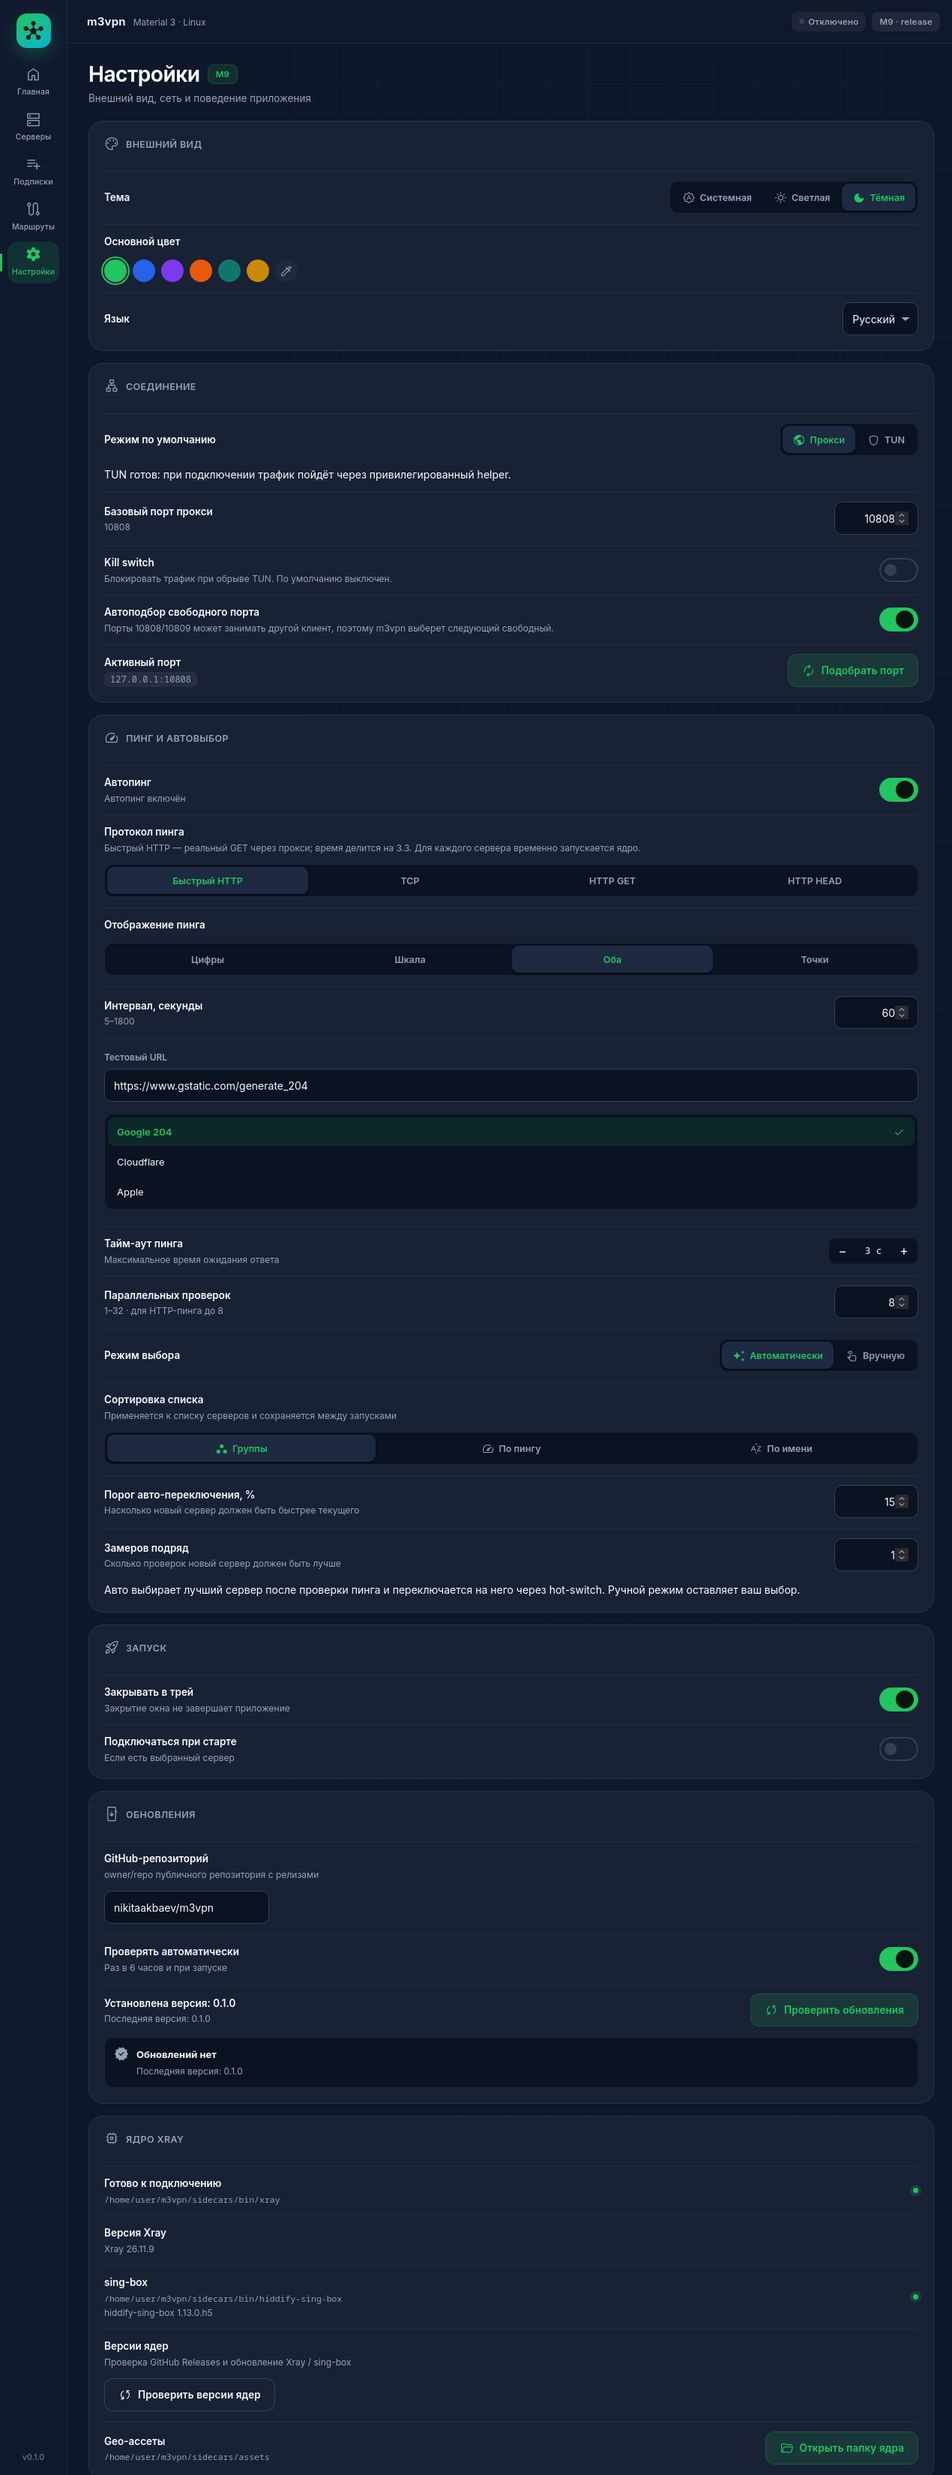
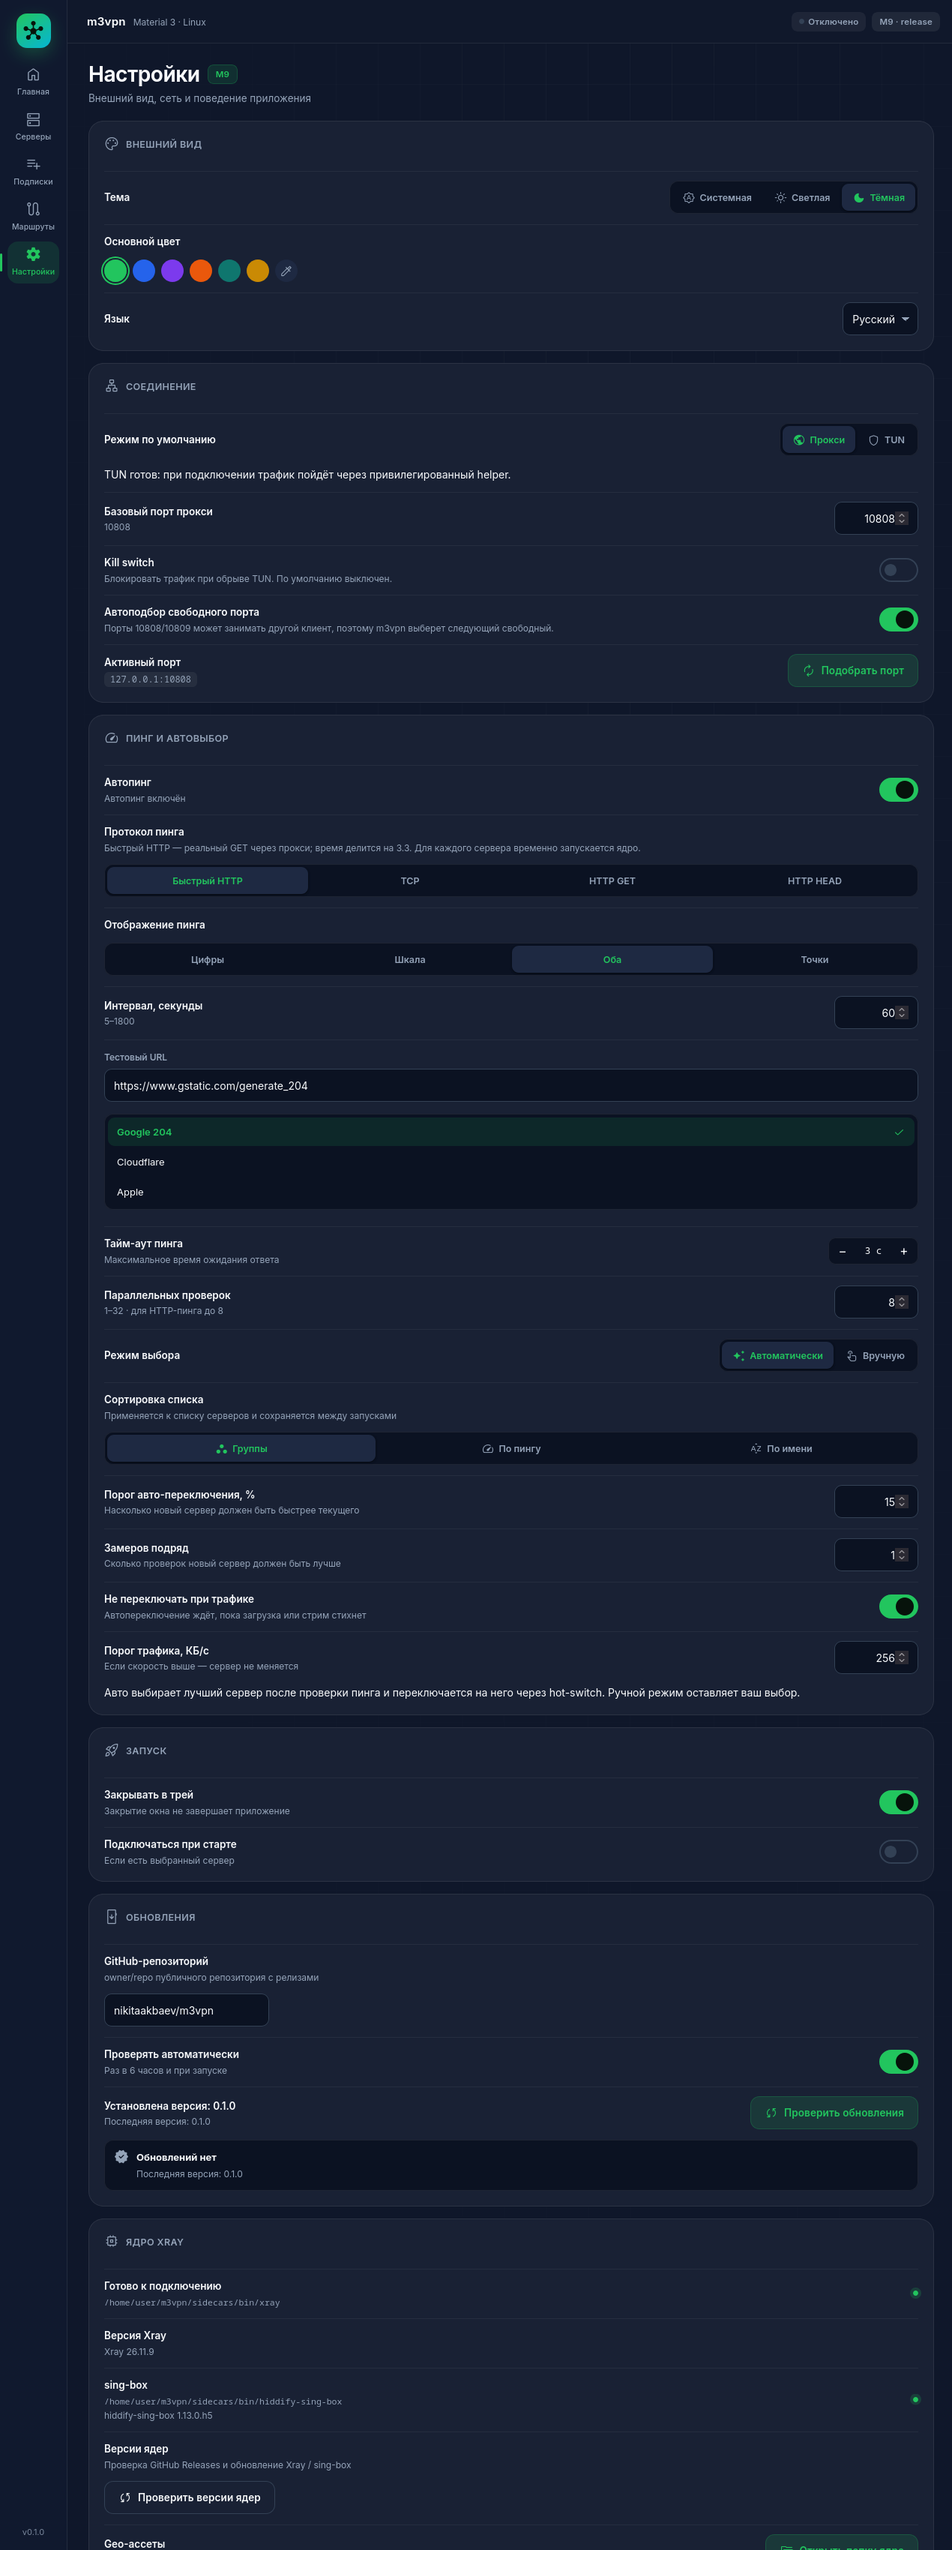
P2: traffic-aware auto-switch via Clash API

diff --git a/apps/desktop/src/store/useAppStore.ts b/apps/desktop/src/store/useAppStore.ts
@@ -37,6 +37,8 @@ interface AppStore {
   refreshingId: string | null;
   autoCandidateId: string | null;
   autoCandidateWins: number;
+  lastTraffic: { total: number; at: number } | null;
+  trafficGuardNotified: boolean;
   toast: string | null;
   lastError: string | null;
   reportedStatusError: string | null;
@@ -111,6 +113,8 @@ export const useAppStore = create<AppStore>((set, get) => ({
   refreshingId: null,
   autoCandidateId: null,
   autoCandidateWins: 0,
+  lastTraffic: null,
+  trafficGuardNotified: false,
   toast: null,
   lastError: null,
   reportedStatusError: null,
@@ -305,6 +309,8 @@ export const useAppStore = create<AppStore>((set, get) => ({
         selectedServerId: target,
         reportedStatusError: null,
         rtt: null,
+        lastTraffic: null,
+        trafficGuardNotified: false,
         autoCandidateId: null,
         autoCandidateWins: 0,
       });
@@ -321,6 +327,7 @@ export const useAppStore = create<AppStore>((set, get) => ({
   },
 
   disconnect: async () => {
+    set({ lastTraffic: null, trafficGuardNotified: false });
     set({ busy: true });
     try {
       const status = await api.disconnectCore();
@@ -329,6 +336,8 @@ export const useAppStore = create<AppStore>((set, get) => ({
         busy: false,
         reportedStatusError: null,
         rtt: null,
+        lastTraffic: null,
+        trafficGuardNotified: false,
         autoCandidateId: null,
         autoCandidateWins: 0,
       });
@@ -434,6 +443,26 @@ export const useAppStore = create<AppStore>((set, get) => ({
       const state = get();
       const lang = state.settings["ui.language"] as Lang;
       const autoMode = state.settings["select.mode"] !== "manual";
+      let trafficBusy = false;
+      if (!connectFastest && autoMode && state.settings["select.traffic_guard"] !== "false") {
+        try {
+          const stats = await api.trafficStats();
+          const total = stats.uploadTotal + stats.downloadTotal;
+          const previous = get().lastTraffic;
+          if (previous && stats.connections > 0) {
+            const elapsed = Math.max(1, (Date.now() - previous.at) / 1000);
+            const kbps = Number(state.settings["select.traffic_guard_kbps"] ?? "256") || 256;
+            const threshold = Math.max(16, kbps) * 1024;
+            trafficBusy = Math.max(0, total - previous.total) / elapsed >= threshold;
+          }
+          set({ lastTraffic: { total, at: Date.now() } });
+          if (!trafficBusy && get().trafficGuardNotified) {
+            set({ trafficGuardNotified: false });
+          }
+        } catch {
+          // The front API is optional; a missing sample must not block switching.
+        }
+      }
       const winsRequired = Math.max(
         1,
         Number(state.settings["select.wins_required"] ?? "2") || 2,
@@ -469,20 +498,28 @@ export const useAppStore = create<AppStore>((set, get) => ({
         if (!state.status.running) {
           get().selectServer(best.serverId);
         } else if (best.serverId !== current?.id && clearlyBetter) {
-          const wins = state.autoCandidateId === best.serverId ? state.autoCandidateWins + 1 : 1;
-          if (current?.excluded || wins >= winsRequired) {
+          if (trafficBusy) {
+            if (!get().trafficGuardNotified) {
+              set({ trafficGuardNotified: true });
+              get().notify(translate(lang, "servers.trafficGuard"));
+            }
             set({ autoCandidateId: null, autoCandidateWins: 0 });
-            await get().connect(best.serverId);
-            const bestServer = state.servers.find((server) => server.id === best.serverId);
-            const from = current
-              ? `${current.name} · ${current.latencyMs ?? "—"} ms`
-              : "—";
-            const to = `${bestServer?.name ?? best.serverId} · ${best.latencyMs ?? "—"} ms`;
-            get().notify(
-              `${translate(lang, "servers.autoSwitched")}: ${to} ← ${from}`,
-            );
           } else {
-            set({ autoCandidateId: best.serverId, autoCandidateWins: wins });
+            const wins = state.autoCandidateId === best.serverId ? state.autoCandidateWins + 1 : 1;
+            if (current?.excluded || wins >= winsRequired) {
+              set({ autoCandidateId: null, autoCandidateWins: 0 });
+              await get().connect(best.serverId);
+              const bestServer = state.servers.find((server) => server.id === best.serverId);
+              const from = current
+                ? `${current.name} · ${current.latencyMs ?? "—"} ms`
+                : "—";
+              const to = `${bestServer?.name ?? best.serverId} · ${best.latencyMs ?? "—"} ms`;
+              get().notify(
+                `${translate(lang, "servers.autoSwitched")}: ${to} ← ${from}`,
+              );
+            } else {
+              set({ autoCandidateId: best.serverId, autoCandidateWins: wins });
+            }
           }
         } else {
           set({ autoCandidateId: null, autoCandidateWins: 0 });

diff --git a/apps/desktop/src/i18n.ts b/apps/desktop/src/i18n.ts
@@ -36,6 +36,7 @@ const ru: Dictionary = {
   "servers.unfavorite": "Убрать из избранного",
   "servers.filterFavorites": "Избранные",
   "servers.noFavorites": "Нет избранных серверов",
+  "servers.trafficGuard": "Переключение отложено: идёт активный трафик",
   "common.save": "Сохранить",
   "servers.emptyTitle": "Пока нет серверов",
   "servers.emptyText": "Добавьте подписку — серверы появятся здесь вместе с пингом и авто-выбором.",
@@ -130,6 +131,10 @@ const ru: Dictionary = {
   "settings.selectManual": "Вручную",
   "settings.startup": "Запуск",
   "settings.closeToTray": "Закрывать в трей",
+  "settings.trafficGuard": "Не переключать при трафике",
+  "settings.trafficGuardHint": "Автопереключение ждёт, пока загрузка или стрим стихнет",
+  "settings.trafficGuardRate": "Порог трафика, КБ/с",
+  "settings.trafficGuardRateHint": "Если скорость выше — сервер не меняется",
   "settings.autoconnect": "Подключаться при старте",
   "settings.closeToTrayHint": "Закрытие окна не завершает приложение",
   "settings.autoconnectHint": "Если есть выбранный сервер",
@@ -331,6 +336,7 @@ const en: Dictionary = {
   "servers.unfavorite": "Remove from favorites",
   "servers.filterFavorites": "Favorites",
   "servers.noFavorites": "No favorite servers",
+  "servers.trafficGuard": "Switch postponed: active traffic detected",
   "common.save": "Save",
   "servers.emptyTitle": "No servers yet",
   "servers.emptyText": "Add a subscription — servers will appear here with ping and auto-selection.",
@@ -425,6 +431,10 @@ const en: Dictionary = {
   "settings.selectManual": "Manual",
   "settings.startup": "Startup",
   "settings.closeToTray": "Close to tray",
+  "settings.trafficGuard": "Pause switching during traffic",
+  "settings.trafficGuardHint": "Auto-switch waits until a download or stream settles",
+  "settings.trafficGuardRate": "Traffic threshold, KB/s",
+  "settings.trafficGuardRateHint": "Above this rate the server is not changed",
   "settings.autoconnect": "Connect on launch",
   "settings.closeToTrayHint": "Closing the window does not quit the app",
   "settings.autoconnectHint": "When a server is selected",

diff --git a/apps/desktop/src/features/settings/SettingsPage.tsx b/apps/desktop/src/features/settings/SettingsPage.tsx
@@ -56,6 +56,8 @@ export function SettingsPage() {
     Number(settings["select.tolerance_ratio"] ?? "0.3") * 100,
   );
   const autoWins = Number(settings["select.wins_required"] ?? "2");
+  const trafficGuard = settings["select.traffic_guard"] !== "false";
+  const trafficKbps = Number(settings["select.traffic_guard_kbps"] ?? "256") || 256;
   const updateRepo = settings["update.github_repo"] ?? "";
   const updateAutocheck = settings["update.autocheck"] !== "false";
   const currentVersion = info?.version ?? "0.1.0";
@@ -478,6 +480,38 @@ export function SettingsPage() {
                 const wins = Number(event.target.value);
                 if (!Number.isFinite(wins)) return;
                 void set("select.wins_required", String(Math.max(1, Math.min(5, Math.round(wins)))));
+              }}
+            />
+          </div>
+          <div className="settings-row">
+            <div className="settings-row__text">
+              <strong>{t("settings.trafficGuard")}</strong>
+              <span>{t("settings.trafficGuardHint")}</span>
+            </div>
+            <Switch
+              checked={trafficGuard}
+              label={t("settings.trafficGuard")}
+              onChange={(checked) => void set("select.traffic_guard", checked ? "true" : "false")}
+            />
+          </div>
+          <div className="settings-row">
+            <div className="settings-row__text">
+              <strong>{t("settings.trafficGuardRate")}</strong>
+              <span>{t("settings.trafficGuardRateHint")}</span>
+            </div>
+            <input
+              className="m3-input m3-input--short"
+              type="number"
+              aria-label={t("settings.trafficGuardRate")}
+              min={16}
+              max={10240}
+              disabled={!trafficGuard}
+              value={String(trafficKbps)}
+              onChange={(event) => {
+                const value = Number(event.target.value);
+                if (!Number.isFinite(value)) return;
+                const clamped = Math.max(16, Math.min(10240, Math.round(value)));
+                void set("select.traffic_guard_kbps", String(clamped));
               }}
             />
           </div>

diff --git a/apps/desktop/src/lib/tauri.ts b/apps/desktop/src/lib/tauri.ts
@@ -51,6 +51,12 @@ export interface Server {
   lossPercent: number;
 }
 
+export interface TrafficStats {
+  uploadTotal: number;
+  downloadTotal: number;
+  connections: number;
+}
+
 export interface ConnectionStatus {
   running: boolean;
   serverId: string | null;
@@ -186,6 +192,8 @@ export const DEFAULT_SETTINGS: Settings = {
   "select.tolerance_ms": "50",
   "select.tolerance_ratio": "0.15",
   "select.wins_required": "1",
+  "select.traffic_guard": "true",
+  "select.traffic_guard_kbps": "256",
   "select.failures_to_failover": "2",
   "tun.kill_switch": "false",
   "tun.strict_route": "false",
@@ -583,6 +591,11 @@ export async function refreshRoutingGeoIfDue(): Promise<GeoStatus | null> {
 export async function listProfiles(): Promise<Profile[]> {
   if (!isTauri) return [...mockProfiles];
   return invoke<Profile[]>("list_profiles");
+}
+
+export async function trafficStats(): Promise<TrafficStats> {
+  if (!isTauri) return { uploadTotal: 0, downloadTotal: 0, connections: 0 };
+  return invoke<TrafficStats>("traffic_stats");
 }
 
 export async function setServerFavorite(serverId: string, favorite: boolean): Promise<void> {

diff --git a/apps/desktop/src-tauri/src/core/front.rs b/apps/desktop/src-tauri/src/core/front.rs
@@ -5,6 +5,14 @@ use std::time::Duration;
 
 pub const SECRET: &str = "m3vpn";
 
+#[derive(Debug, Clone, serde::Serialize)]
+#[serde(rename_all = "camelCase")]
+pub struct TrafficStats {
+    pub upload_total: u64,
+    pub download_total: u64,
+    pub connections: usize,
+}
+
 pub fn config(socks_port: u16, http_port: u16, api_port: u16, slot_a: u16, slot_b: u16) -> Value {
     json!({
         "log": { "level": "warn", "timestamp": true },
@@ -68,6 +76,27 @@ pub fn write_config(config: &Value, path: &Path) -> Result<()> {
         std::fs::set_permissions(path, std::fs::Permissions::from_mode(0o600))?;
     }
     Ok(())
+}
+
+pub fn traffic(api_port: u16) -> Result<TrafficStats> {
+    let client = reqwest::blocking::Client::builder()
+        .timeout(Duration::from_millis(800))
+        .build()
+        .context("build traffic client")?;
+    let response = client
+        .get(format!("http://127.0.0.1:{api_port}/connections"))
+        .bearer_auth(SECRET)
+        .send()
+        .context("fetch front traffic")?;
+    if !response.status().is_success() {
+        bail!("front traffic returned {}", response.status());
+    }
+    let value: Value = response.json().context("decode front traffic")?;
+    Ok(TrafficStats {
+        upload_total: value["uploadTotal"].as_u64().unwrap_or(0),
+        download_total: value["downloadTotal"].as_u64().unwrap_or(0),
+        connections: value["connections"].as_array().map(Vec::len).unwrap_or(0),
+    })
 }
 
 pub fn switch(api_port: u16, target: &str) -> Result<()> {

diff --git a/apps/desktop/src-tauri/src/commands.rs b/apps/desktop/src-tauri/src/commands.rs
@@ -209,6 +209,13 @@ pub async fn refresh_profile(app: AppHandle, profile_id: String) -> Result<Impor
 }
 
 #[tauri::command]
+pub fn traffic_stats(state: State<'_, AppState>) -> Result<core::front::TrafficStats, String> {
+    let port =
+        core::front_api_port(&state.core).ok_or_else(|| "front proxy не запущен".to_string())?;
+    core::front::traffic(port).map_err(|error| format!("{error:#}"))
+}
+
+#[tauri::command]
 pub fn set_server_favorite(
     state: State<'_, AppState>,
     server_id: String,

diff --git a/apps/desktop/src-tauri/src/core/supervisor.rs b/apps/desktop/src-tauri/src/core/supervisor.rs
@@ -101,6 +101,11 @@ pub fn start_front(lock: &Mutex<CoreState>, paths: &AppPaths, sidecars: &Sidecar
     ensure_front(lock, paths, sidecars).map(|_| ())
 }
 
+pub fn front_api_port(lock: &Mutex<CoreState>) -> Option<u16> {
+    let guard = lock.lock().ok()?;
+    (guard.front_api_port != 0).then_some(guard.front_api_port)
+}
+
 pub fn front_pid(lock: &Mutex<CoreState>) -> Option<u32> {
     let guard = lock.lock().unwrap_or_else(|poisoned| poisoned.into_inner());
     guard.front.as_ref().map(Child::id)

diff --git a/apps/desktop/src-tauri/src/core/mod.rs b/apps/desktop/src-tauri/src/core/mod.rs
@@ -4,6 +4,6 @@ pub mod supervisor;
 pub mod xray;
 
 pub use supervisor::{
-    connect_singbox, connect_xray, disconnect, front_pid, restart_front, rtt, shutdown,
-    start_front, status, ConnectionStatus, CoreState,
+    connect_singbox, connect_xray, disconnect, front_api_port, front_pid, restart_front, rtt,
+    shutdown, start_front, status, ConnectionStatus, CoreState,
 };

diff --git a/apps/desktop/src-tauri/src/store.rs b/apps/desktop/src-tauri/src/store.rs
@@ -22,6 +22,8 @@ const DEFAULTS: &[(&str, &str)] = &[
     ("select.tolerance_ms", "50"),
     ("select.tolerance_ratio", "0.15"),
     ("select.wins_required", "1"),
+    ("select.traffic_guard", "true"),
+    ("select.traffic_guard_kbps", "256"),
     ("select.failures_to_failover", "2"),
     ("tun.kill_switch", "false"),
     ("tun.strict_route", "false"),

diff --git a/apps/desktop/src-tauri/src/lib.rs b/apps/desktop/src-tauri/src/lib.rs
@@ -157,6 +157,7 @@ pub fn run() {
             commands::list_profiles,
             commands::list_servers,
             commands::delete_profile,
+            commands::traffic_stats,
             commands::set_server_favorite,
             commands::set_server_tags,
             commands::refresh_profile,

diff --git a/docs/p2-report.md b/docs/p2-report.md
@@ -1,7 +1,7 @@
 # P2 — управление серверами
 
 Дата: 2026-11-25
-Статус: закрыт, кроме traffic-aware switch
+Статус: **закрыт полностью**
 
 ## Сделано ранее
 
@@ -54,8 +54,26 @@ Tauri-команды: `set_server_favorite`, `set_server_tags`.
 | typecheck / build | OK |
 | clippy | OK |
 
-## Осталось
+## Traffic-aware auto-switch
 
-**Traffic-aware auto-switch** — не менять сервер во время активной
-загрузки/стрима. Для этого нужны счётчики трафика по соединениям, которых
-пока нет в API ядер.
+Перед автопереключением приложение спрашивает Clash API front-прокси
+(`/connections`) и считает скорость по приросту `uploadTotal + downloadTotal`
+между проверками пинга.
+
+- настройка `select.traffic_guard` — включена по умолчанию;
+- порог `select.traffic_guard_kbps` — 256 КБ/с по умолчанию;
+- если скорость выше порога, сервер не меняется;
+- пользователь один раз получает уведомление «Переключение отложено:
+  идёт активный трафик»;
+- ручная кнопка «В самый быстрый» игнорирует защиту;
+- если front API недоступен, переключение не блокируется.
+
+## Проверки
+
+| Проверка | Результат |
+|---|---|
+| App tests | 34/34 + 13 ignored |
+| Helper tests | 3/3 + 1 ignored |
+| Parser tests | 18/18 |
+| typecheck / build | OK |
+| clippy | OK |

diff --git a/docs/roadmap.md b/docs/roadmap.md
@@ -73,10 +73,9 @@ M0–M9 закрыты. Приложение умеет:
 
 Оценка: **2–3 дня**.
 
-Статус: **P2 закрыт, кроме traffic-aware switch**. Готовы массовый выбор,
-фильтры, поиск по ядру, причина автопереключения, теги, избранное, история
-пинга (sparkline), jitter и packet loss. Осталась защита от переключения
-во время большой загрузки — нужны счётчики трафика.
+Статус: **P2 закрыт**. Готовы массовый выбор, фильтры, поиск по ядру,
+причина автопереключения, теги, избранное, история пинга (sparkline), jitter,
+packet loss и traffic-aware auto-switch через Clash API front-прокси.
 
 ## P3 — routing, DNS и TUN-политики
 
